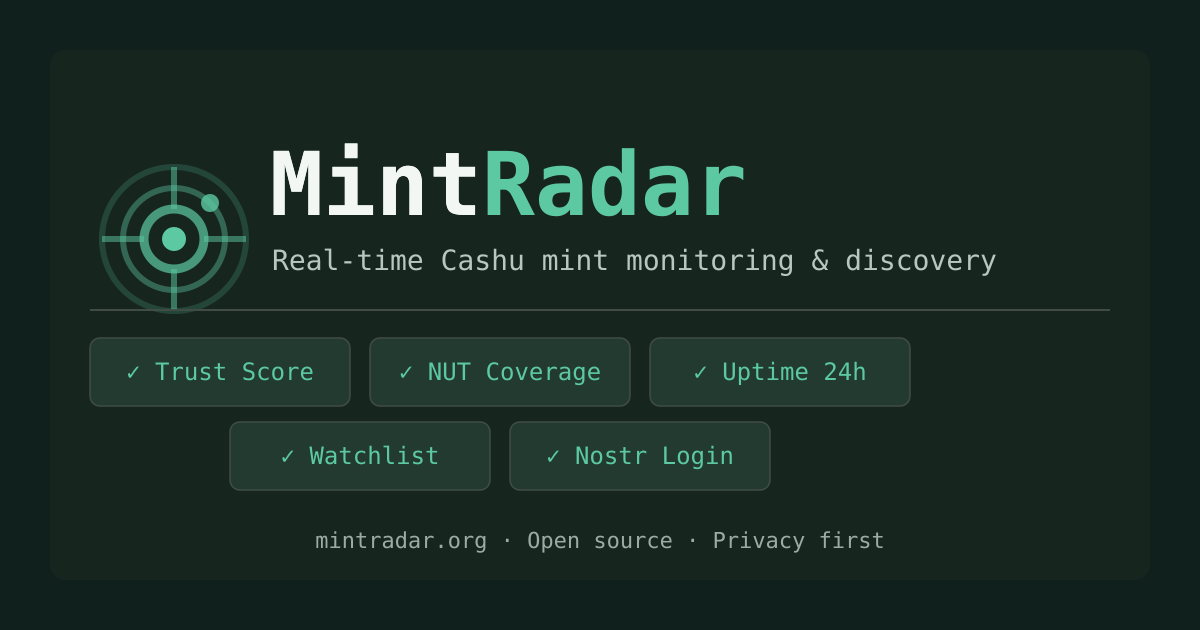
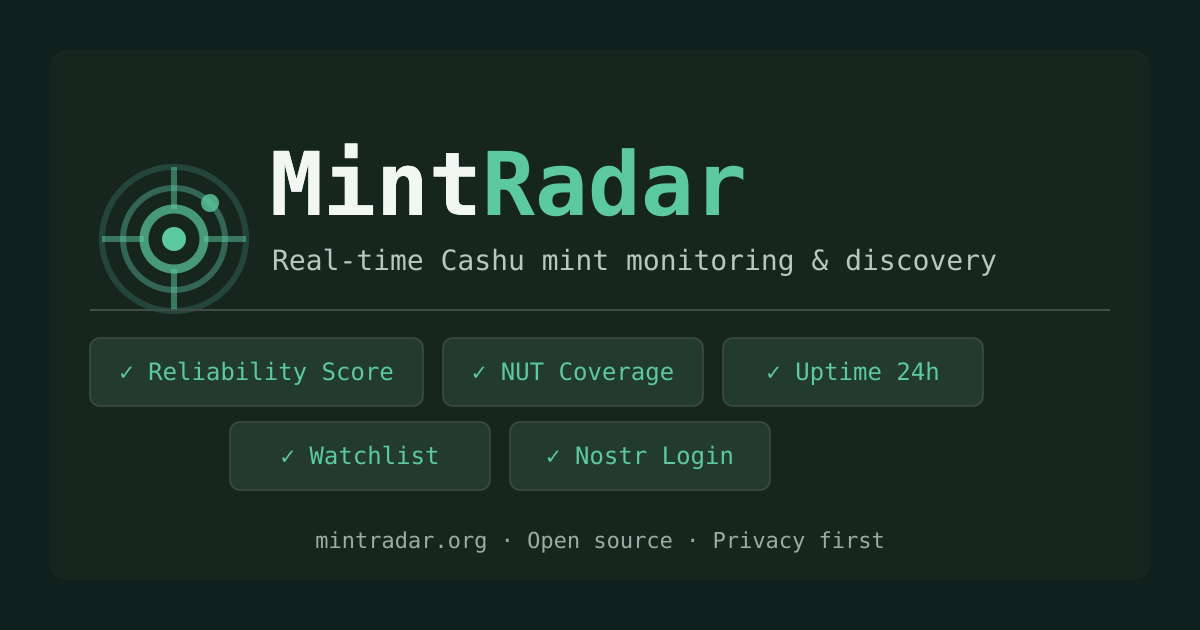
OG image: Reliability Score label fits its pill

Changed region(s): [[0.0925, 0.573, 0.8017, 0.6032], [0.7708, 0.6333, 0.8017, 0.6635], [0.7708, 0.5127, 0.8017, 0.5429]]

diff --git a/MintRadar/docs/claude/design-palette-and-chrome.md b/MintRadar/docs/claude/design-palette-and-chrome.md
@@ -302,9 +302,7 @@ and `<alias><family>monospace</family><prefer><family>DejaVu Sans Mono</family><
 monospace gives different glyphs). Not covered: `public/icons/icon-N.png` (no `xN`; 8 files, not referenced by the manifest,
 index.html or any code — leftovers from `logo-original.png`, left untouched) and `logo-original.png`.
 
-**OG label caveat:** `og-image.svg` says "Reliability Score", but at 24px mono that label (~275px) is wider than its 260px pill
-and spills over the edge. The PNG therefore still shows the old "Trust Score" label (`generate-icons.mjs` substitutes it);
-fix the pill/label in the SVG, then delete that substitution.
+**OG pills:** the first pill ("✓ Reliability Score", 19 mono chars ≈ 275px at 24px) is 333px wide (the others are 260px) so it keeps the same ~29px inner padding; the other two pills of row 1 are shifted right by 73px. Row 2 was left where it was (so it is no longer centred under row 1). The PNG is rendered straight from the SVG text.
 
 **Caching:** `deploy/nginx.conf` serves every `.png/.svg/.ico` with `expires 1y` + `Cache-Control: public, immutable`
 (no content hashes for `public/` files), so browsers — and social platforms that re-use their cached card — keep the old
